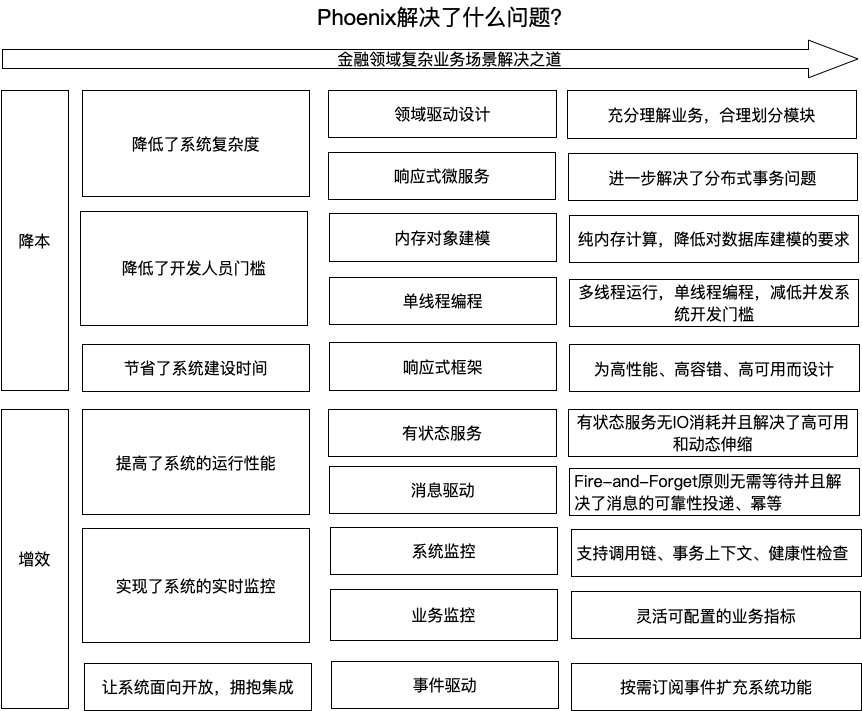
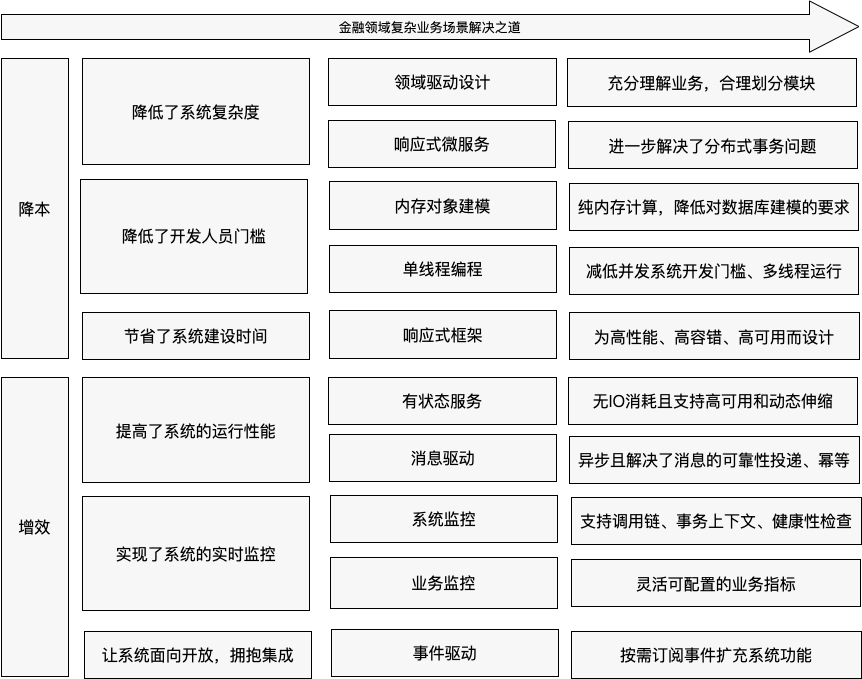
更新样式

diff --git a/src/pages/index.js b/src/pages/index.js
@@ -68,7 +68,7 @@ function Step({imageUrl, title, description, position}) {
           <div className="row">
             <div className="col col--7">
               <div className="text--center">
-                <img src={imgUrl} alt={title} />
+                <img className={styles.stepsImage} src={imgUrl} alt={title} />
               </div>
             </div>
             <div className="col col--4 col--offset-1 padding-vert--xl">
@@ -78,14 +78,14 @@ function Step({imageUrl, title, description, position}) {
           </div>
         )}
         {position === 'right' && (
-          <div className={classnames('row', styles.stepBackground)}>
+          <div className="row">
             <div className="col col--4 padding-vert--xl">
               <h2>{title}</h2>
               <p>{description}</p>
             </div>
             <div className="col col--7 col--offset-1">
               <div className="text--center">
-                <img src={imgUrl} alt={title} />
+                <img className={styles.stepsImage} src={imgUrl} alt={title} />
               </div>
             </div>
           </div>
@@ -148,9 +148,11 @@ function Home() {
         {steps && steps.length && (
           <section className={styles.steps}>
             <div className="container">
-              {steps.map((props, idx) => (
-                <Step key={idx} {...props} />
-              ))}
+              <div className="row">
+                 {steps.map((props, idx) => (
+                     <Step key={idx} {...props} />
+                 ))}
+              </div>
             </div>
           </section>
         )}

diff --git a/src/pages/styles.module.css b/src/pages/styles.module.css
@@ -39,9 +39,12 @@
   align-items: center;
   padding: 2rem 0;
   width: 100%;
+  background-color: #f7f7f7;
 }
 
-.stepBackground {
-  background-color: #f7f7f7;
+.stepsImage {
+  margin:15px 5px 20px 20px;
+  height: 500px;
+  width: 900px;
 }
  
